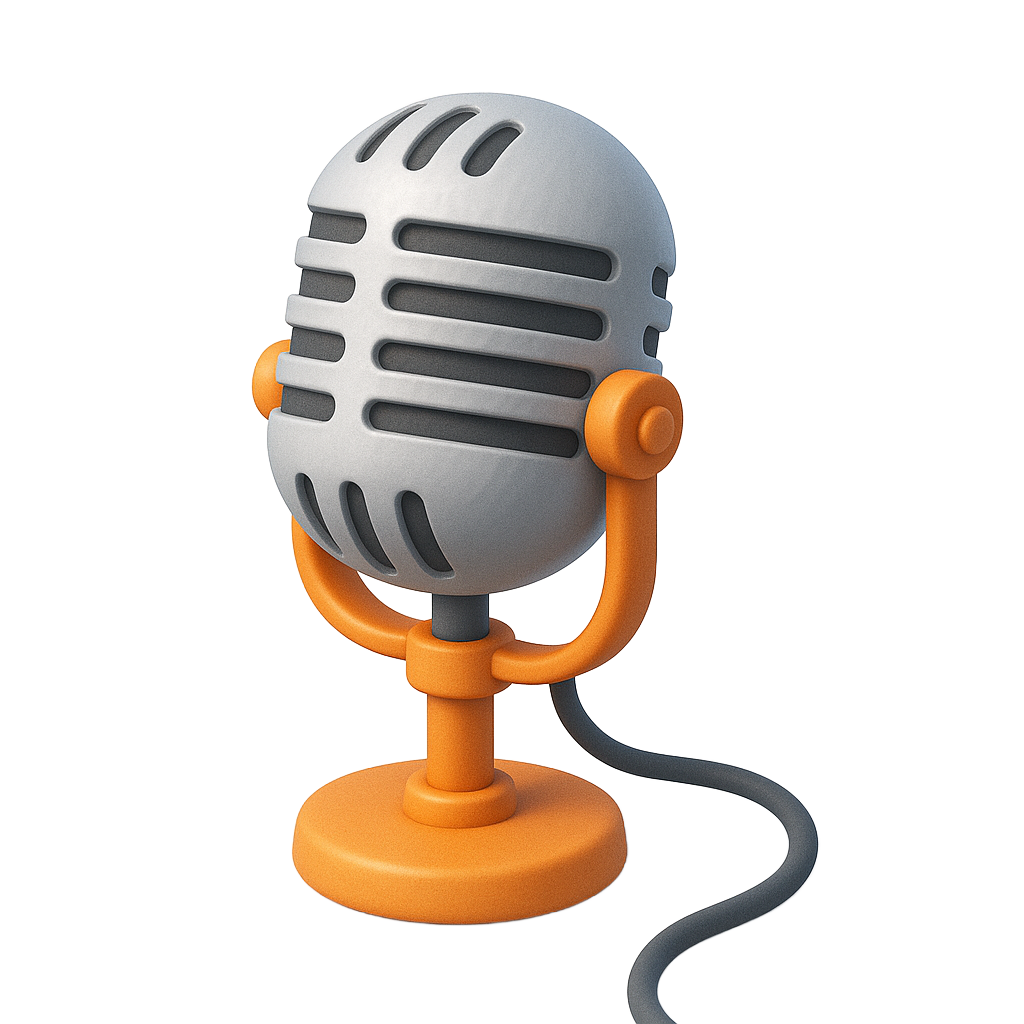
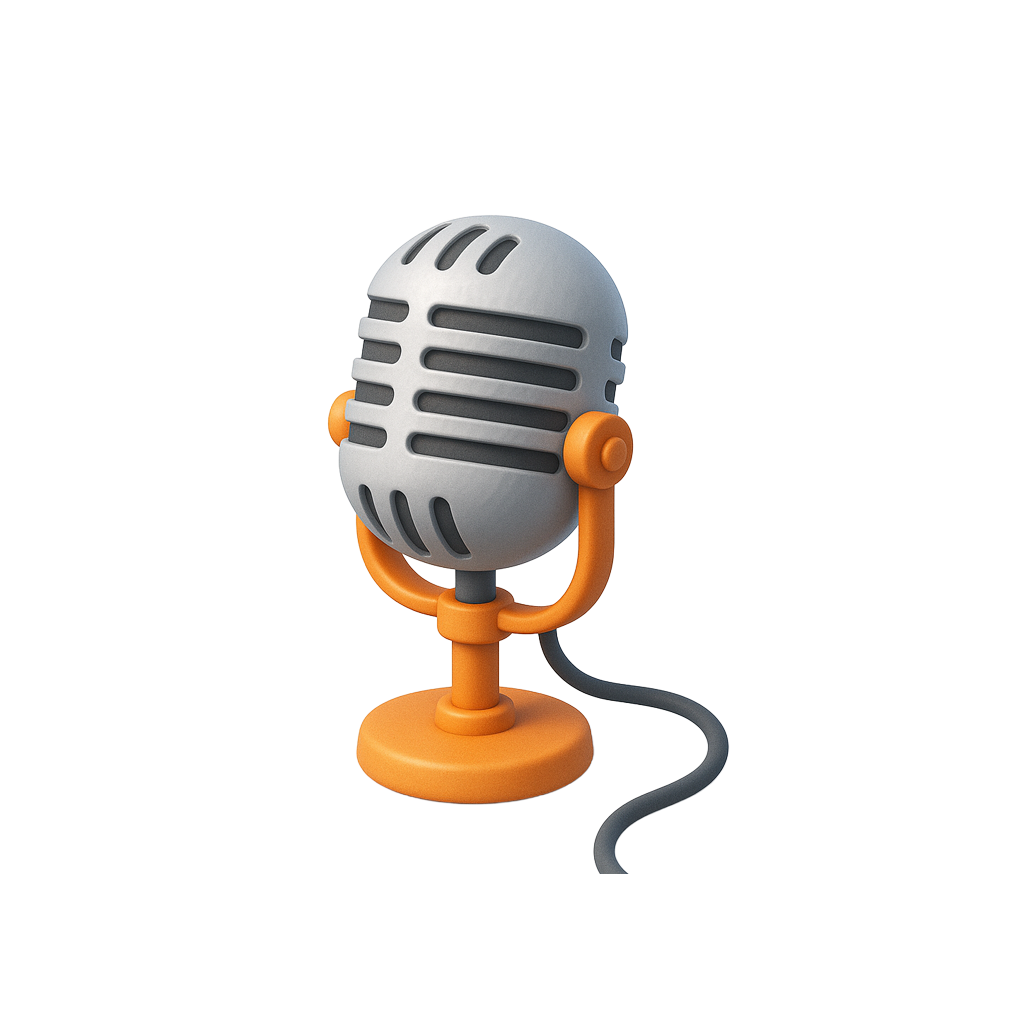
更新应用图标，替换为新的前景和单色图标文件，并在录音切换组件和转录上下文中添加调试日志，以便更好地跟踪录音状态和权限请求。这些更改旨在提升应用的视觉一致性和录音功能的可调试性。

Changed region(s): [[0.25, 0.0938, 0.8125, 1.0]]

diff --git a/contexts/transcription-context.tsx b/contexts/transcription-context.tsx
@@ -477,12 +477,17 @@ export function TranscriptionProvider({ children }: React.PropsWithChildren) {
   }, [recorder]);
 
   const startSession = useCallback(async (options?: SessionToggleOptions) => {
+    console.log('[transcription] startSession called');
     if (sessionActiveRef.current) {
+      console.log('[transcription] session already active, returning');
       return;
     }
     try {
+      console.log('[transcription] requesting recording permissions');
       const permission = await requestRecordingPermissionsAsync();
+      console.log('[transcription] permission result:', permission);
       if (!permission.granted) {
+        console.log('[transcription] permission denied');
         Alert.alert(t('alerts.microphone_permission.title'), t('alerts.microphone_permission.message'));
         setError(t('transcription.errors.permission_denied'));
         return;
@@ -516,6 +521,7 @@ export function TranscriptionProvider({ children }: React.PropsWithChildren) {
   }, [resetSegmentState, sessionActiveRef, stopAndResetRecording]);
 
   const toggleSession = useCallback(async (options?: SessionToggleOptions) => {
+    console.log('[transcription] toggleSession called, isActive:', sessionActiveRef.current);
     if (sessionActiveRef.current) {
       await stopSession();
     } else {

diff --git a/components/recording-toggle.tsx b/components/recording-toggle.tsx
@@ -78,7 +78,10 @@ export function RecordingToggle({ qaAutoEnabled = false }: RecordingToggleProps 
   return (
     <Pressable
       accessibilityLabel={accessibilityLabel}
-      onPress={() => { void toggleSession({ qaAutoEnabled }); }}
+      onPress={() => {
+        console.log('[RecordingToggle] Button pressed');
+        void toggleSession({ qaAutoEnabled });
+      }}
       style={styles.recordButtonWrapper}>
       <LinearGradient colors={colors} start={{ x: 0, y: 0 }} end={{ x: 1, y: 1 }} style={styles.recordButton}>
         <View style={styles.recordButtonContent}>
